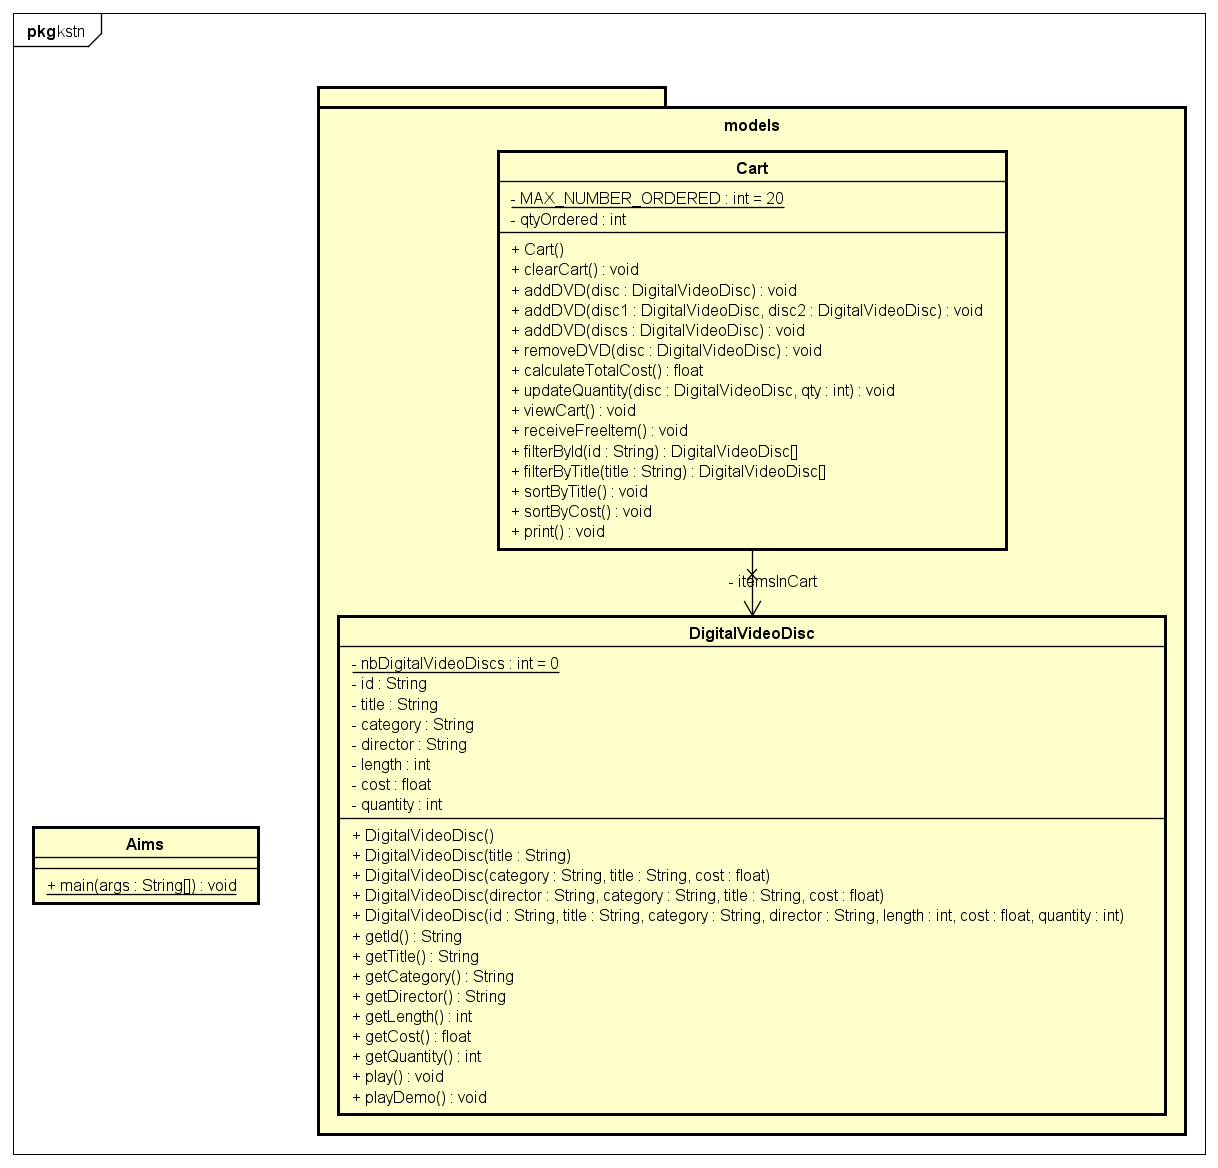
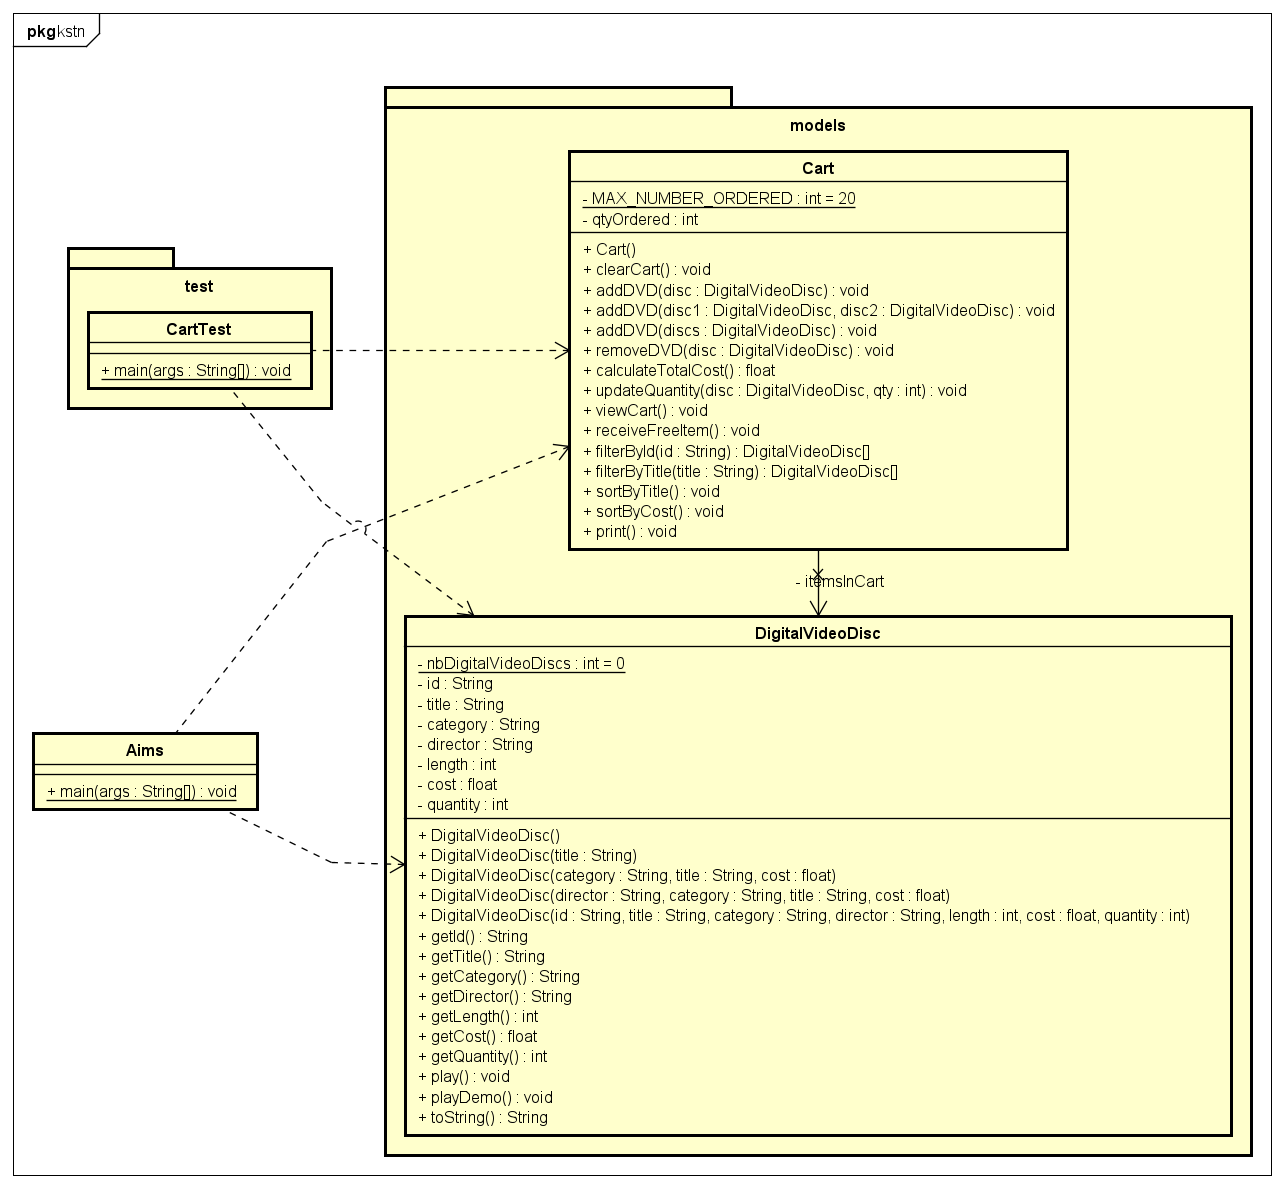
feat(cart): pretty print + unit tests

Changed region(s): [[0.0, 0.0616, 0.9984, 1.0], [0.0, 0.6164, 0.2184, 0.8014], [0.0, 0.0, 0.0936, 0.0616]]

diff --git a/AimsProject/src/com/hust/kstn/models/Cart.java b/AimsProject/src/com/hust/kstn/models/Cart.java
@@ -52,7 +52,7 @@ public class Cart {
 			}
 		}
 		if (found == -1) {
-			System.out.println("The disc [" + disc.getTitle() + "] does not exist!!!");
+			System.out.println("Can not find the disc [" + disc.getTitle() + "] in the cart, can not remove!!!");
 			return;
 		}
 		for (int i = found + 1; i < qtyOrdered; i++)
@@ -100,19 +100,23 @@ public class Cart {
 	}
 
 	public void print() {
+		if (qtyOrdered == 0) {
+			System.out.println("The cart is empty!");
+			return;
+		}
 		int totQty = 0;
 		for (int i = 0; i < qtyOrdered; i++) {
 			totQty += itemsInCart[i].getQuantity();
 		}
-		System.out.println("=== Total items in cart: " + totQty + " ===");
-		System.out.println("== All items in cart ===");
+		System.out.println("======================= THE CURRENT CART =======================");
+		System.out.println("Total items: [" + totQty + "]");
+		float subtotal = 0;
 		for (int i = 0; i < qtyOrdered; i++) {
 			DigitalVideoDisc item = itemsInCart[i];
-			int qty = item.getQuantity();
-			float cost = item.getCost();
-			float total = cost * qty;
-			System.out.println("[ID]: " + item.getId() + ", [Title]: " + item.getTitle() + ", [Quantity]: " + qty + ", [Cost]: " + cost + "/DVD, [Total]: " + total);
+			System.out.println("- " + item.toString());
+			subtotal += item.getCost() * item.getQuantity();
 		}
-		System.out.println("==============================");
+		System.out.println("Subtotal: [" + subtotal + "]$");
+		System.out.println("================================================================");
 	}
 }

diff --git a/AimsProject/src/com/hust/kstn/test/CartTest.java b/AimsProject/src/com/hust/kstn/test/CartTest.java
@@ -1,0 +1,35 @@
+package com.hust.kstn.test;
+
+import com.hust.kstn.models.*;
+public class CartTest {
+	public static void main(String[] args) {
+		Cart cart = new Cart();
+		DigitalVideoDisc tgt = new DigitalVideoDisc("TOREM");
+		cart.removeDVD(tgt);
+		cart.print();
+		for (int i = 1; i <= 25; i++) {
+			DigitalVideoDisc ith = new DigitalVideoDisc("OHMAGAT222" + Integer.toString(i));
+			cart.addDVD(ith);
+			cart.print();
+			if (i == 15) {
+				cart.removeDVD(ith);
+				cart.print();
+			}
+		}
+		cart.removeDVD(tgt);
+		cart.print();
+		
+		cart.clearCart();
+		DigitalVideoDisc disc1 = new DigitalVideoDisc("DELULU007");
+		DigitalVideoDisc disc2 = new DigitalVideoDisc("TRULULU002");
+		cart.addDVD(disc1, disc2);
+		cart.print();
+		
+		DigitalVideoDisc []discs = new DigitalVideoDisc[20];
+		for (int i = 0; i < 20; i++) {
+			discs[i] = new DigitalVideoDisc("TEMPORA_" + Integer.toString(i + 1));
+		}
+		cart.addDVD(discs);
+		cart.print();
+	}
+}

diff --git a/AimsProject/src/com/hust/kstn/Aims.java b/AimsProject/src/com/hust/kstn/Aims.java
@@ -28,9 +28,10 @@ public class Aims {
 		}
 		
 		cart.print();
-		System.out.println("[Current Total Cost]: " + cart.calculateTotalCost());
+//		System.out.println("[Current Total Cost]: " + cart.calculateTotalCost());
 		
 		cart.clearCart();
+		cart.print();
 		
 		cart.removeDVD(dvd1);
 		
@@ -38,6 +39,6 @@ public class Aims {
 		cart.addDVD(dvd3);
 		
 		cart.print();
-		System.out.println("[Current Total Cost]: " + cart.calculateTotalCost());
+//		System.out.println("[Current Total Cost]: " + cart.calculateTotalCost());
 	}
 }

diff --git a/AimsProject/src/com/hust/kstn/models/DigitalVideoDisc.java b/AimsProject/src/com/hust/kstn/models/DigitalVideoDisc.java
@@ -56,4 +56,11 @@ public class DigitalVideoDisc {
 	public void playDemo() {
 		// TODO
 	}
+	
+	@Override
+	public String toString() {
+//		float total = cost * quantity;
+//		return "[ID]: " + id + ", [Title]: " + title + ", [Cost]: " + cost + "/DVD, [Total]: " + total + ", [Length]: " + length + ", [Category]: " + category + ", [Director]: " + director);
+		return "DVD" + "[" + id + "]" + " - [" + title + "]" + " - [" + cost + "]" + " - [" + director + "]" + " - [" + length + "]" + " - [" + category + "]";
+	}
 }
